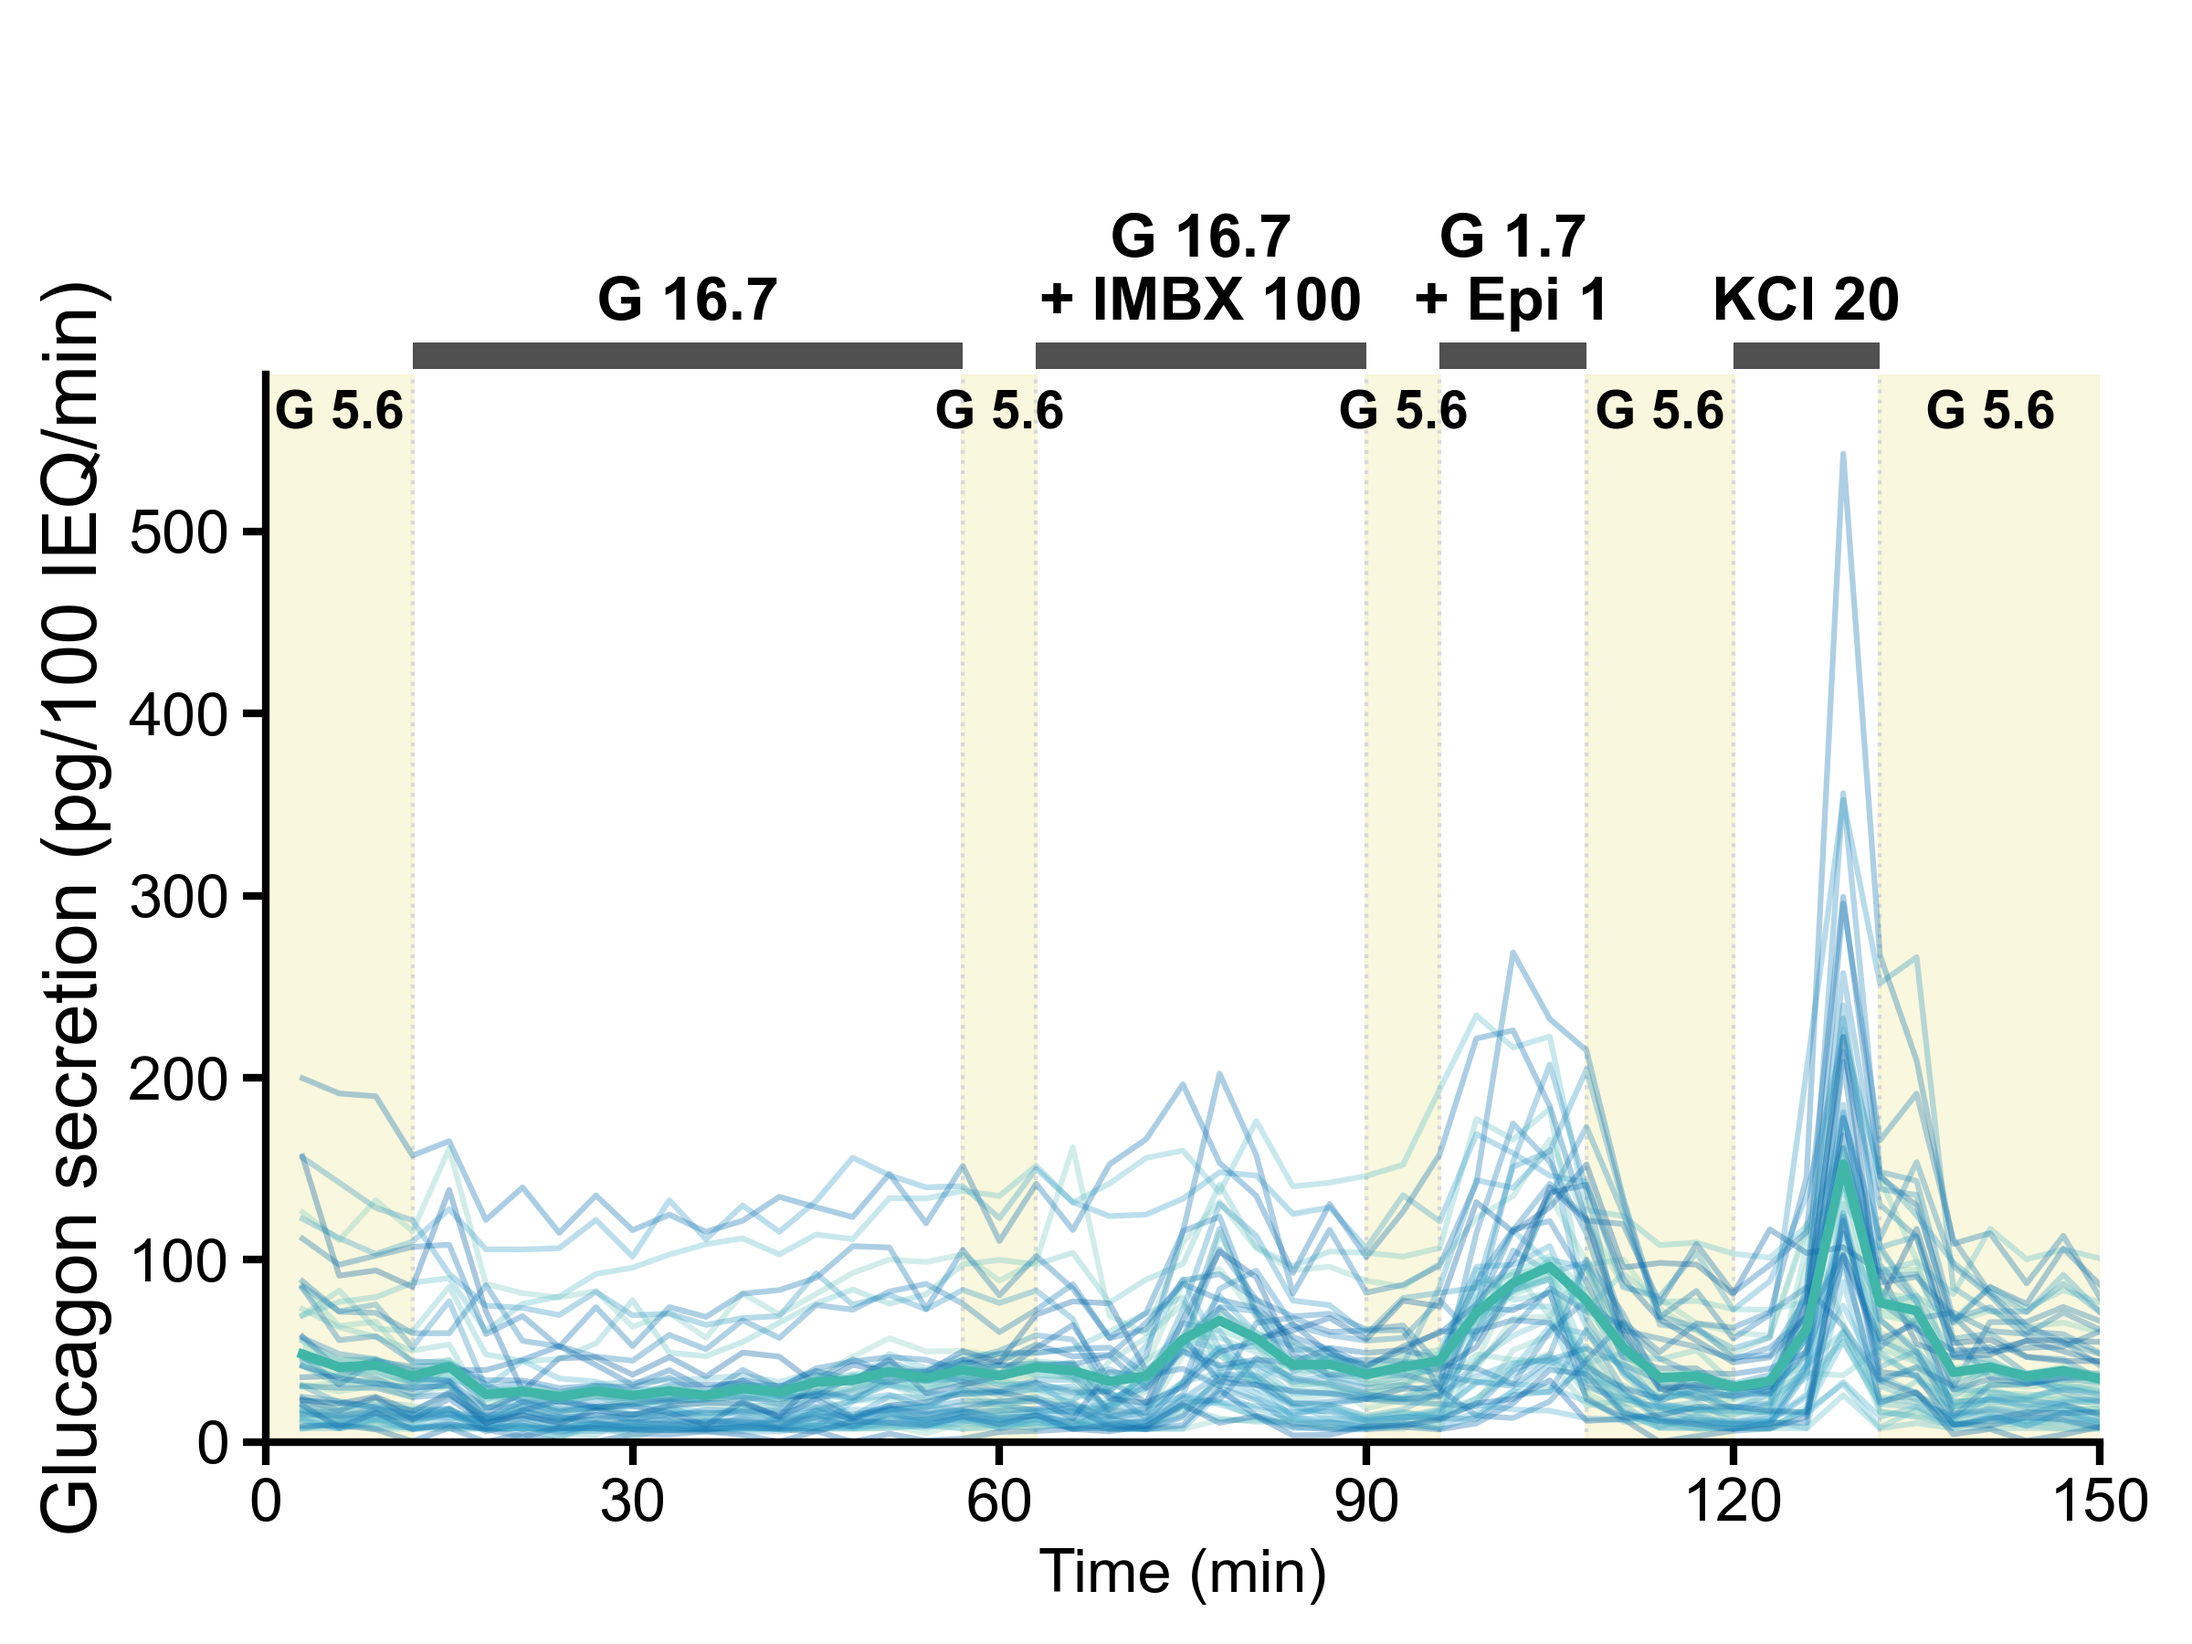
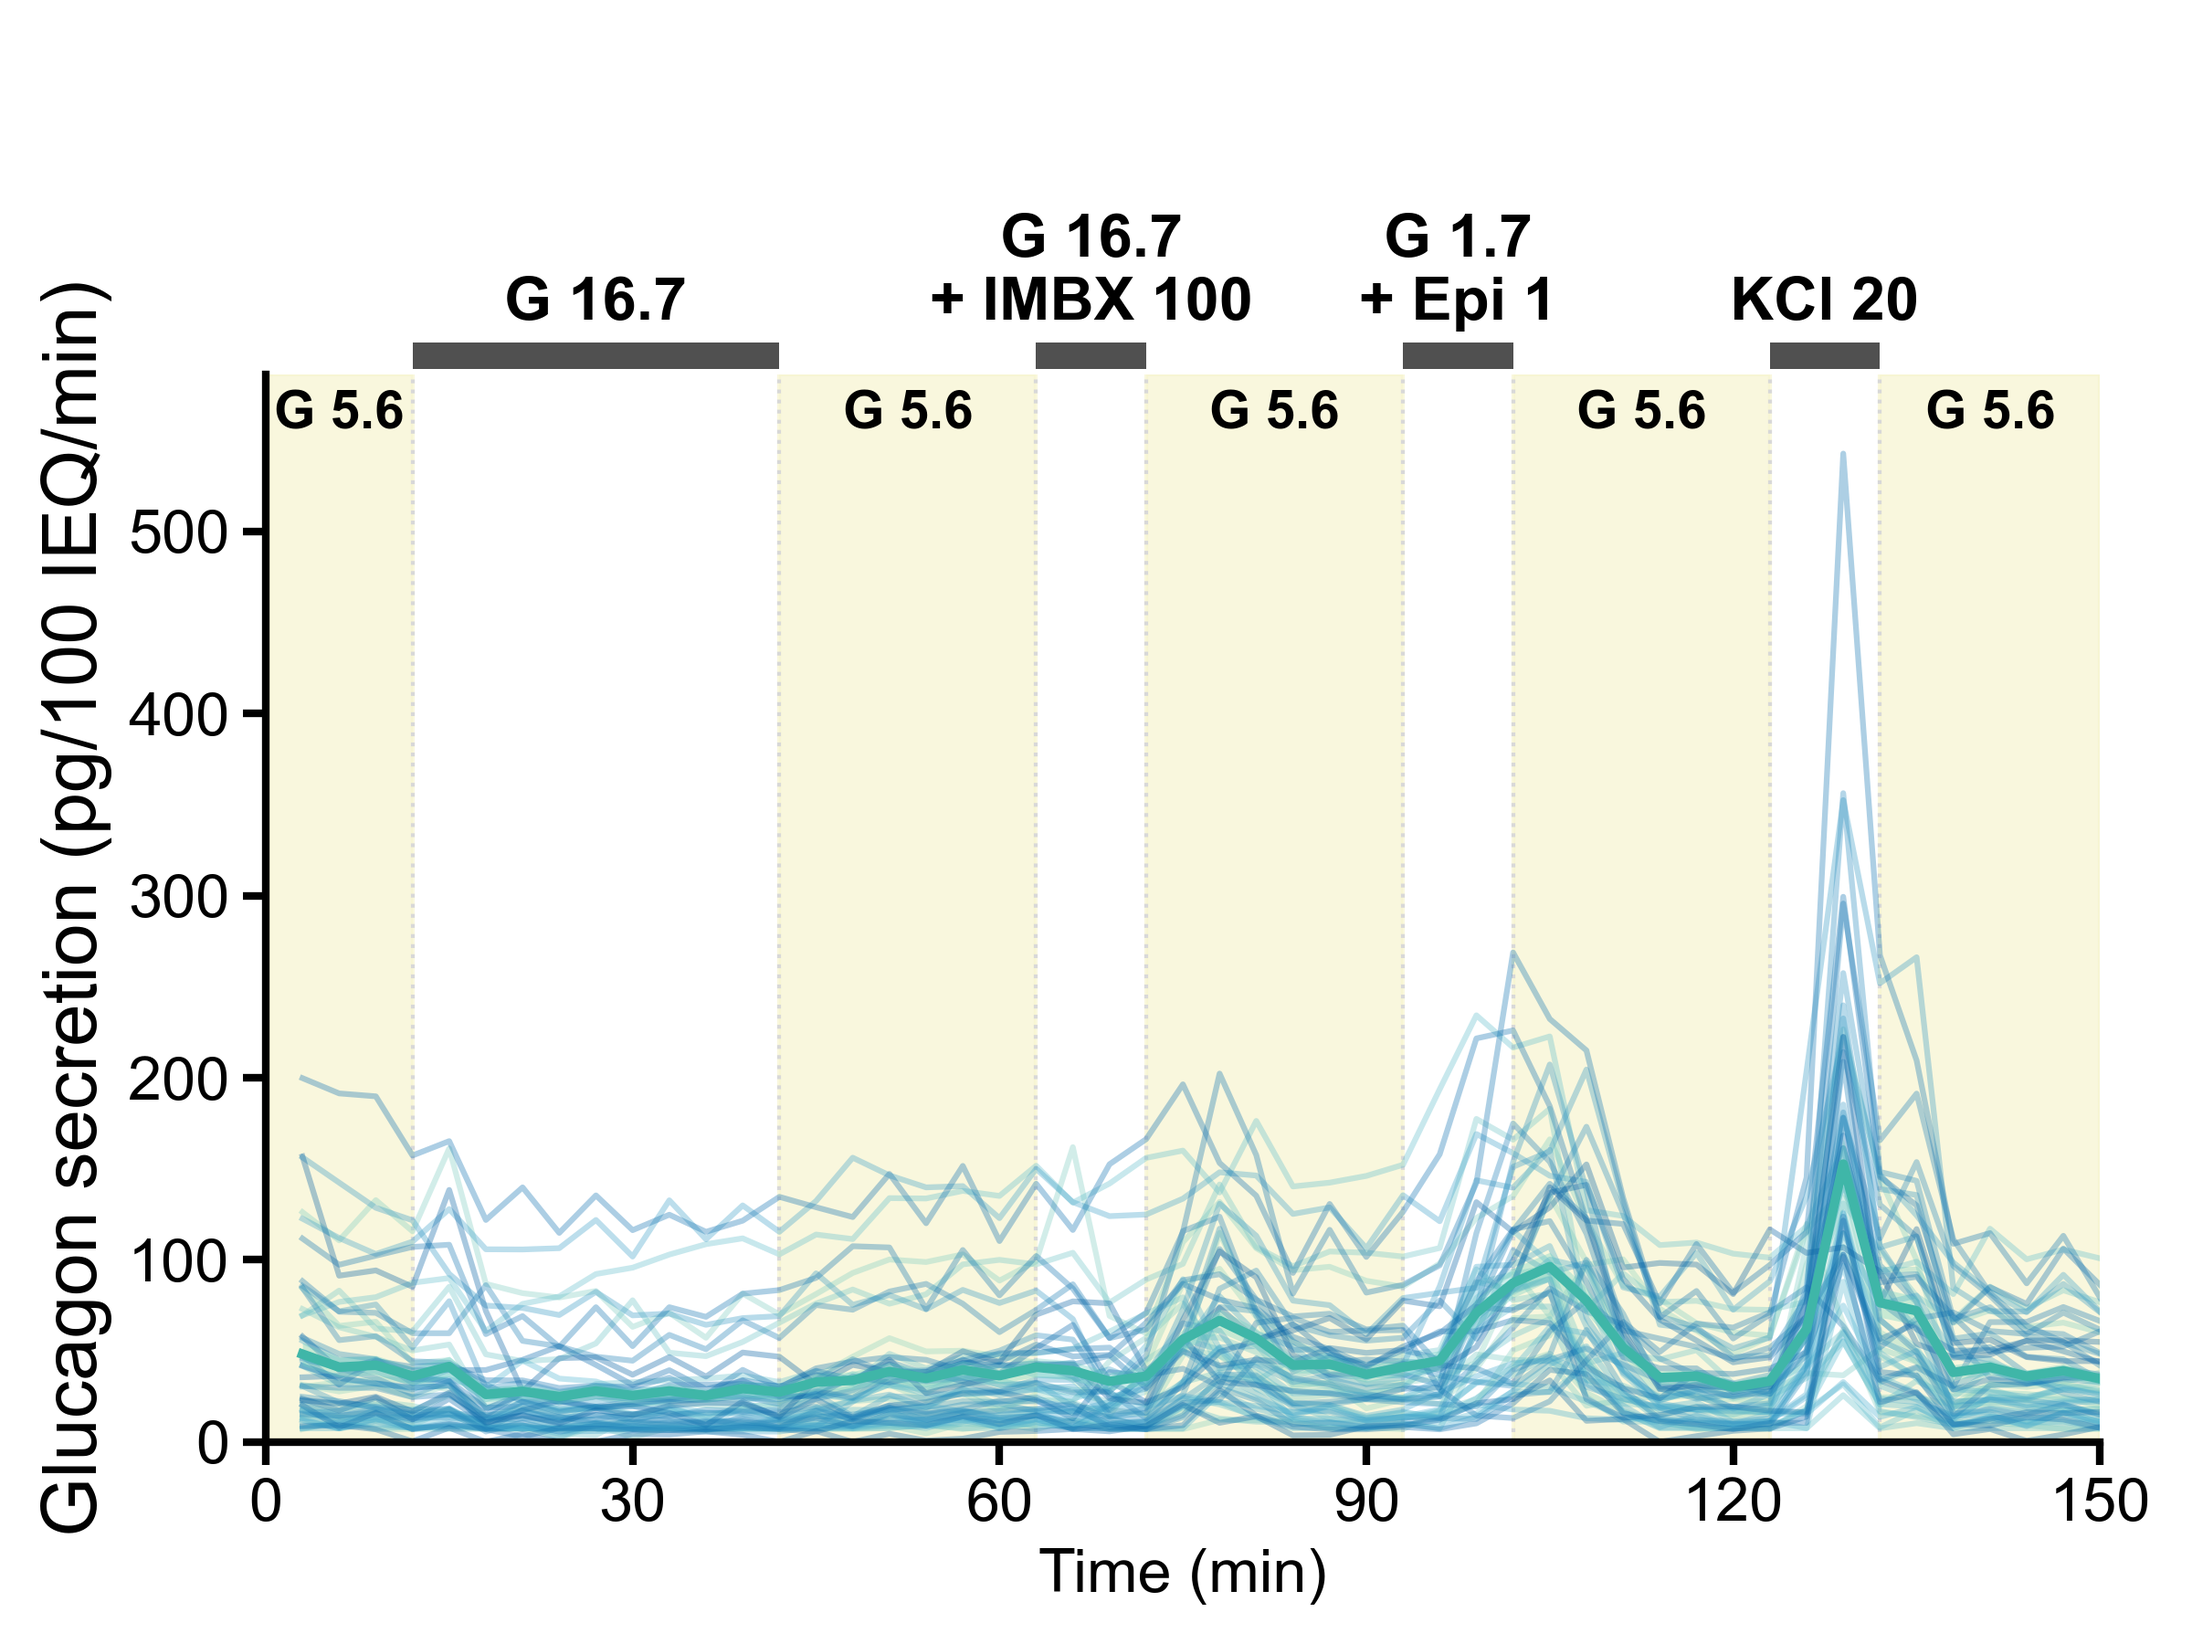
fixed figure ranges

Changed region(s): [[0.2188, 0.1244, 0.875, 0.9022], [0.5312, 0.84, 0.5938, 0.9022]]

diff --git a/visualization/plot_traces.py b/visualization/plot_traces.py
@@ -14,16 +14,19 @@ import pandas as pd
 plt.rcParams["font.family"] = "Arial"
 
 # Fixed stimulus layout (kept constant across datasets).
-STIMULUS_SEGMENTS: List[Tuple[int, int, str, bool]] = [
-    (0, 12, "G 5.6", False),
-    (12, 57, "G 16.7", True),
-    (57, 63, "G 5.6", False),
-    (63, 90, "G 16.7\n+ IMBX 100", True),
-    (90, 96, "G 5.6", False),
-    (96, 108, "G 1.7\n+ Epi 1", True),
-    (108, 120, "G 5.6", False),
-    (120, 132, "KCl 20", True),
-    (132, 150, "G 5.6", False),
+# Important convention:
+# - "G 5.6" phases are background-only (no black bar)
+# - All other labels are stimuli and get black bars
+STIMULUS_SEGMENTS: List[Tuple[int, int, str]] = [
+    (0, 12, "G 5.6"),
+    (12, 42, "G 16.7"),
+    (42, 63, "G 5.6"),
+    (63, 72, "G 16.7\n+ IMBX 100"),
+    (72, 93, "G 5.6"),
+    (93, 102, "G 1.7\n+ Epi 1"),
+    (102, 123, "G 5.6"),
+    (123, 132, "KCl 20"),
+    (132, 150, "G 5.6"),
 ]
 
 
@@ -94,8 +97,9 @@ def _plot_top_stimulus_annotations(ax: plt.Axes, y_top: float) -> None:
     bar_y = y_top * 1.005
     bar_h = y_top * 0.025
 
-    for start, end, label, has_bar in STIMULUS_SEGMENTS:
-        if has_bar:
+    for start, end, label in STIMULUS_SEGMENTS:
+        is_stimulus = label != "G 5.6"
+        if is_stimulus:
             ax.add_patch(
                 plt.Rectangle(
                     (start, bar_y),
@@ -170,8 +174,8 @@ def visualize_trace_csv(
     fig, ax = plt.subplots(figsize=(8, 6))
 
     # Fixed pale-yellow windows for G 5.6 phases.
-    for start, end, _, has_bar in STIMULUS_SEGMENTS:
-        if not has_bar:
+    for start, end, label in STIMULUS_SEGMENTS:
+        if label == "G 5.6":
             ax.axvspan(start, end, color="#f7f5cf", alpha=0.7, zorder=0)
 
     # Fixed vertical guide lines.
